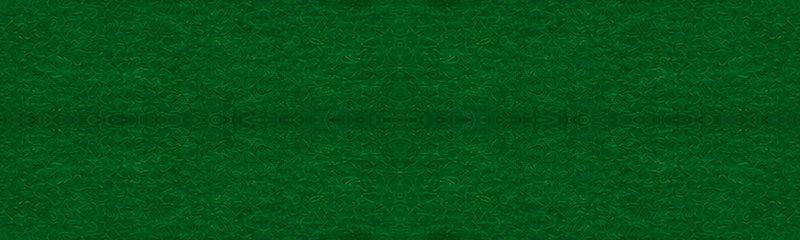
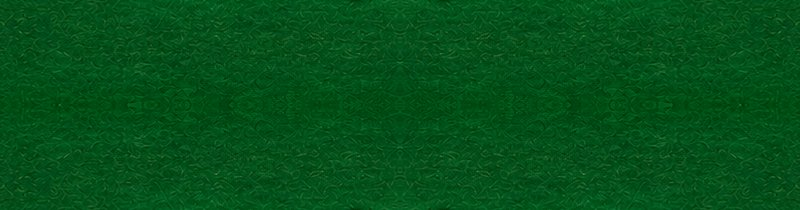
Poker felt: seamless tile; softer leather grain
Claude-Session: https://claude.ai/code/session_011rT47vDPFzvPP5KtMXAjNU

diff --git a/inHouseEstimator/dealer-table.html b/inHouseEstimator/dealer-table.html
@@ -235,7 +235,7 @@ function draw() {
         <rect x="-50" y="-50" width="500" height="400" fill="#fff"/><rect x="${OX - GAP_W - 2}" y="-50" width="${GAP_W * 2 + 4}" height="${OY - OH + 56}" fill="#000"/>
       </mask>
       <!-- Felt and leather grain cut from images/eldorado-hills-emerald-poker-table.png (edh-felt.jpg, edh-leather.jpg). -->
-      <pattern id="feltImg" patternUnits="userSpaceOnUse" width="200" height="60"><image href="../images/edh-felt.jpg" width="200" height="60" preserveAspectRatio="none"/></pattern>
+      <pattern id="feltImg" patternUnits="userSpaceOnUse" width="200" height="52.5"><image href="../images/edh-felt.jpg?v=2" width="200" height="52.5" preserveAspectRatio="none"/></pattern>
       <pattern id="leatherImg" patternUnits="userSpaceOnUse" width="250" height="11.25"><image href="../images/edh-leather.jpg" width="250" height="11.25" preserveAspectRatio="none"/></pattern>
       <radialGradient id="feltG" cx="${cx}" cy="${cy + 40}" r="${r}" gradientUnits="userSpaceOnUse">
         <stop offset="0" stop-color="#14894a"/><stop offset=".8" stop-color="#0f6b3a"/><stop offset="1" stop-color="#0a4f2a"/>
@@ -335,7 +335,7 @@ function tableBody(d) {
       + `<line x1="${gl - 8}" y1="${ty}" x2="${gr + 8}" y2="${ty}" stroke="#050505" stroke-width="4"/>`
       + `<line x1="${gl - 8}" y1="${ty + 1.6}" x2="${gr + 8}" y2="${ty + 1.6}" stroke="#d4a843" stroke-width="1"/>`
       + RAIL_BLACK.map(([w, col]) => `<path d="${rail}" fill="none" stroke="${col}" stroke-width="${w}" stroke-linecap="round" stroke-linejoin="round"/>`).join("")
-      + `<path d="${rail}" fill="none" stroke="url(#leatherImg)" stroke-width="16" stroke-linecap="round" stroke-linejoin="round" opacity=".75" style="mix-blend-mode:overlay"/>`   // leather grain
+      + `<path d="${rail}" fill="none" stroke="url(#leatherImg)" stroke-width="16" stroke-linecap="round" stroke-linejoin="round" opacity=".45" style="mix-blend-mode:overlay"/>`   // leather grain
       + `<rect x="${fx - 5}" y="${fy - 5}" width="${fw + 10}" height="${fh + 10}" rx="${rx + 5}" fill="none" stroke="url(#railLight)" stroke-width="3" mask="url(#dlrGap)"/>`;   // rail catching the light
   }
   const m = r + 8, rp = `M${cx - m} ${cy - 6} L${cx + m} ${cy - 6} L${cx + m} ${cy} A ${m} ${m} 0 0 1 ${cx - m} ${cy} Z`;
